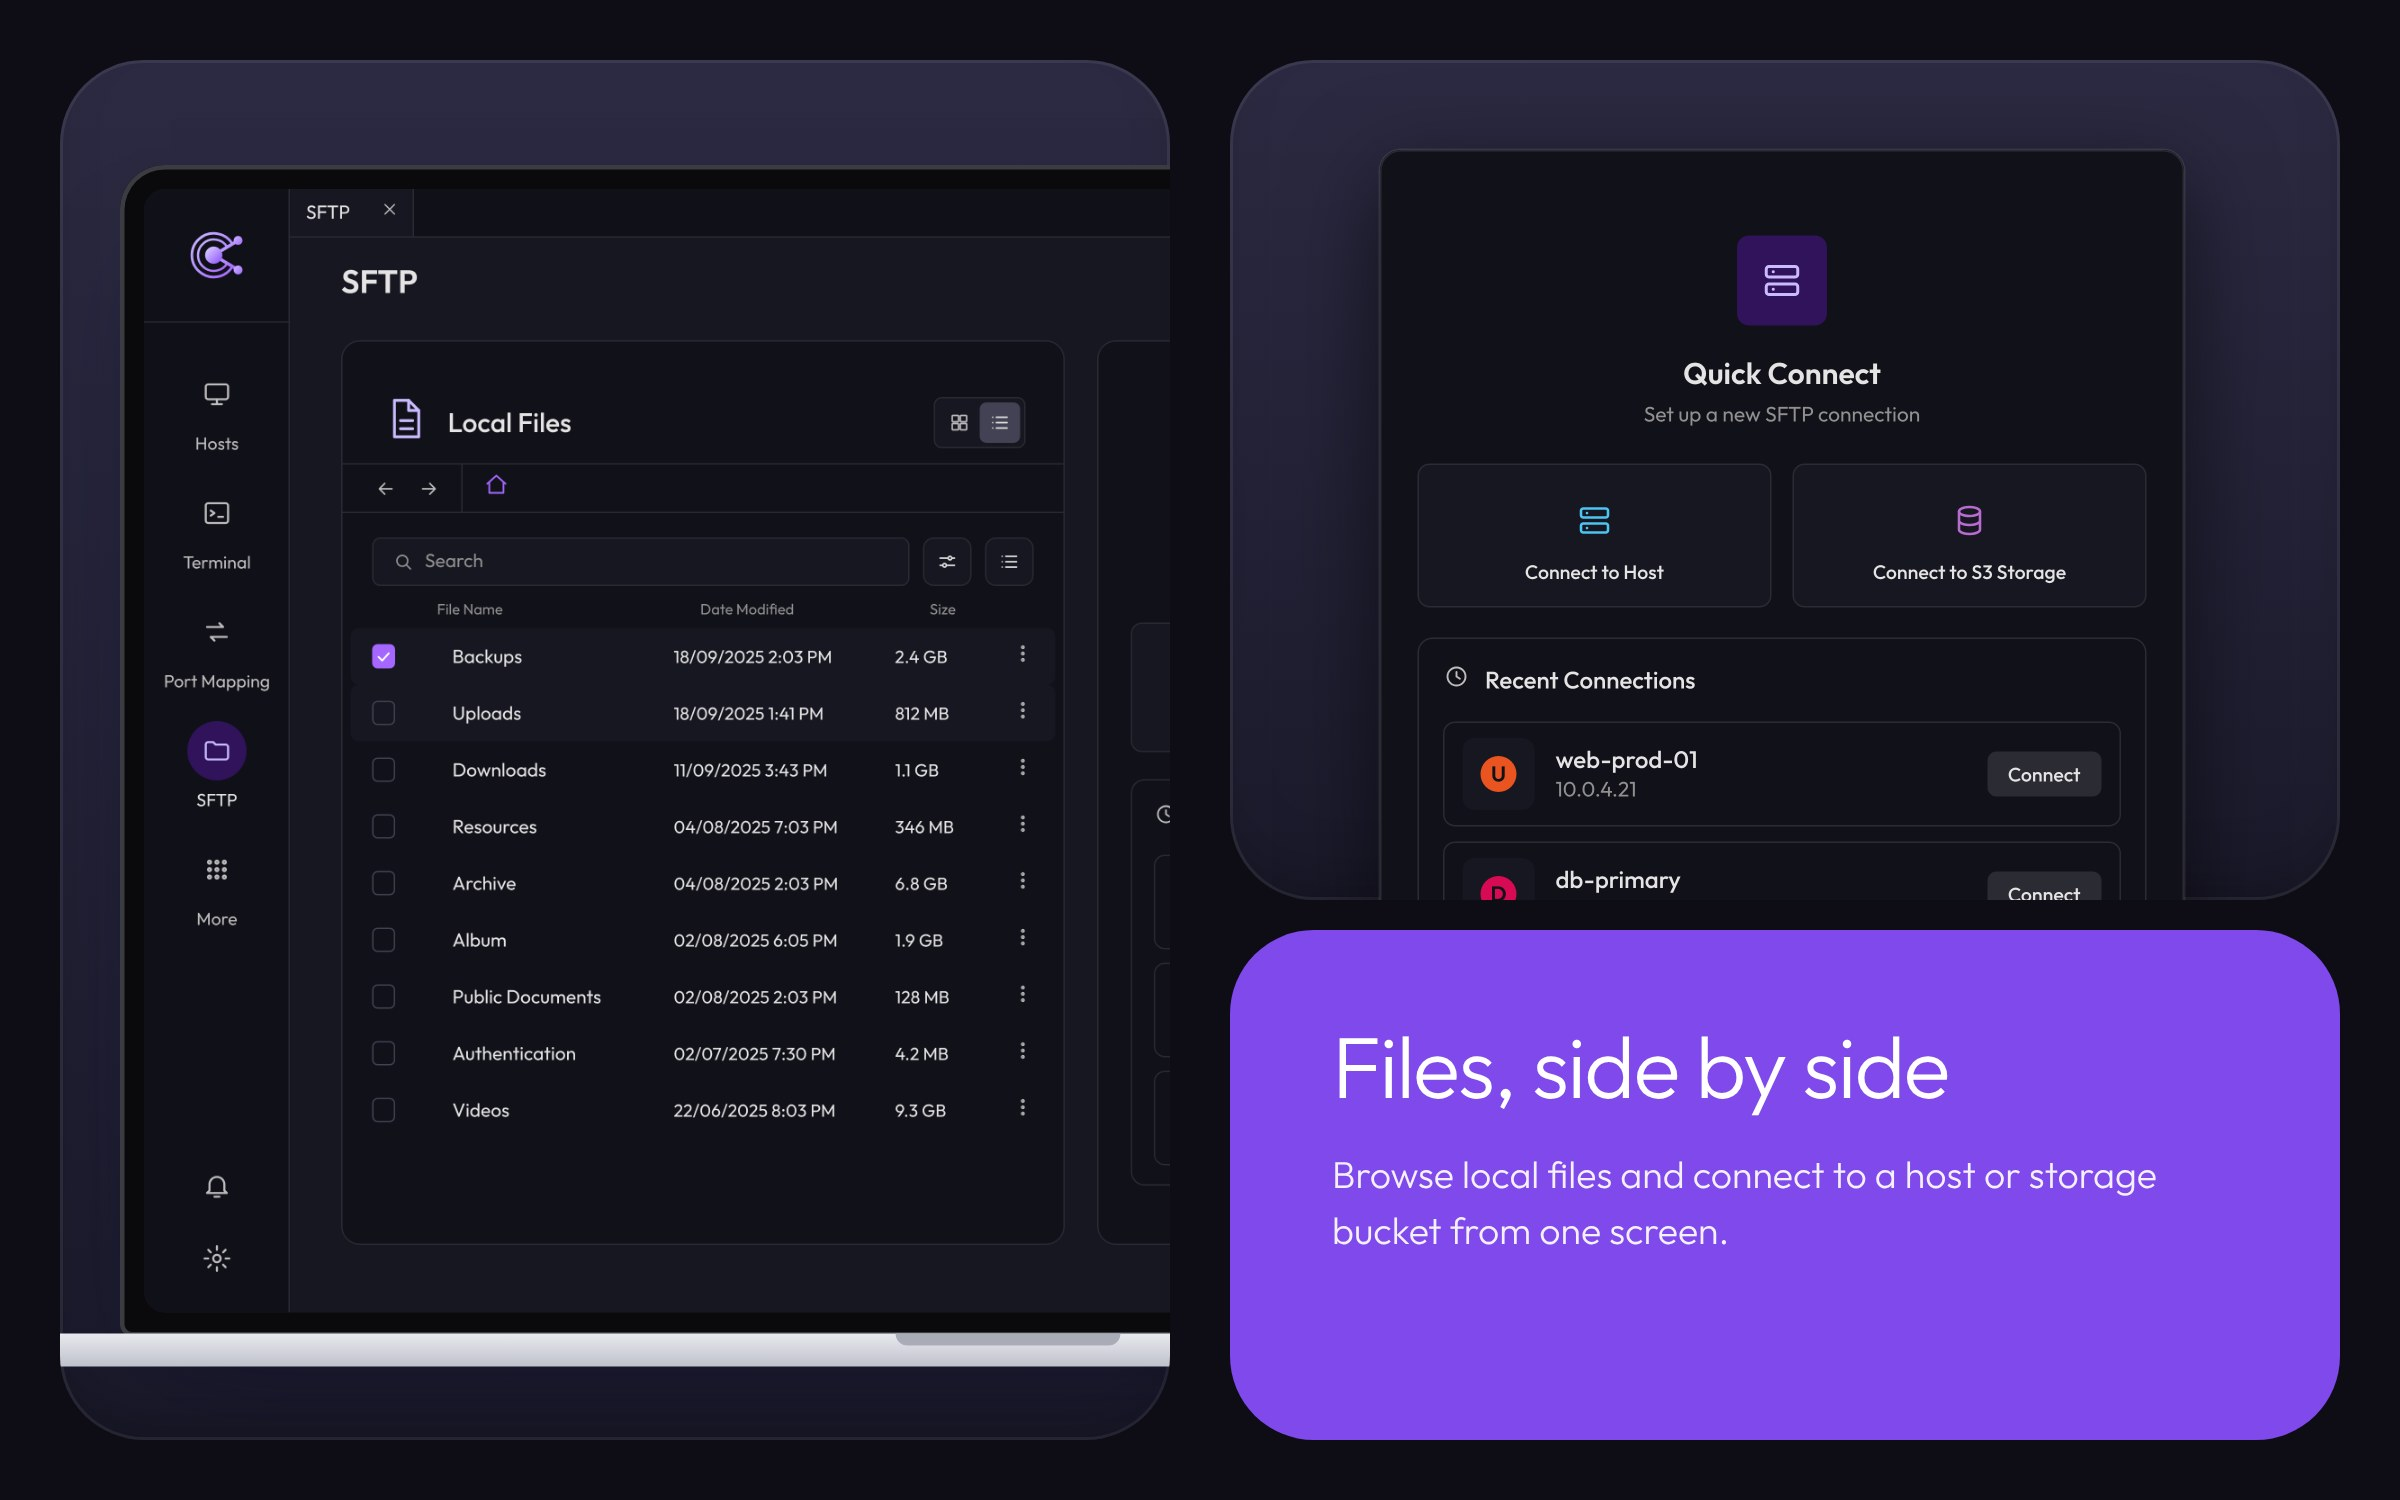
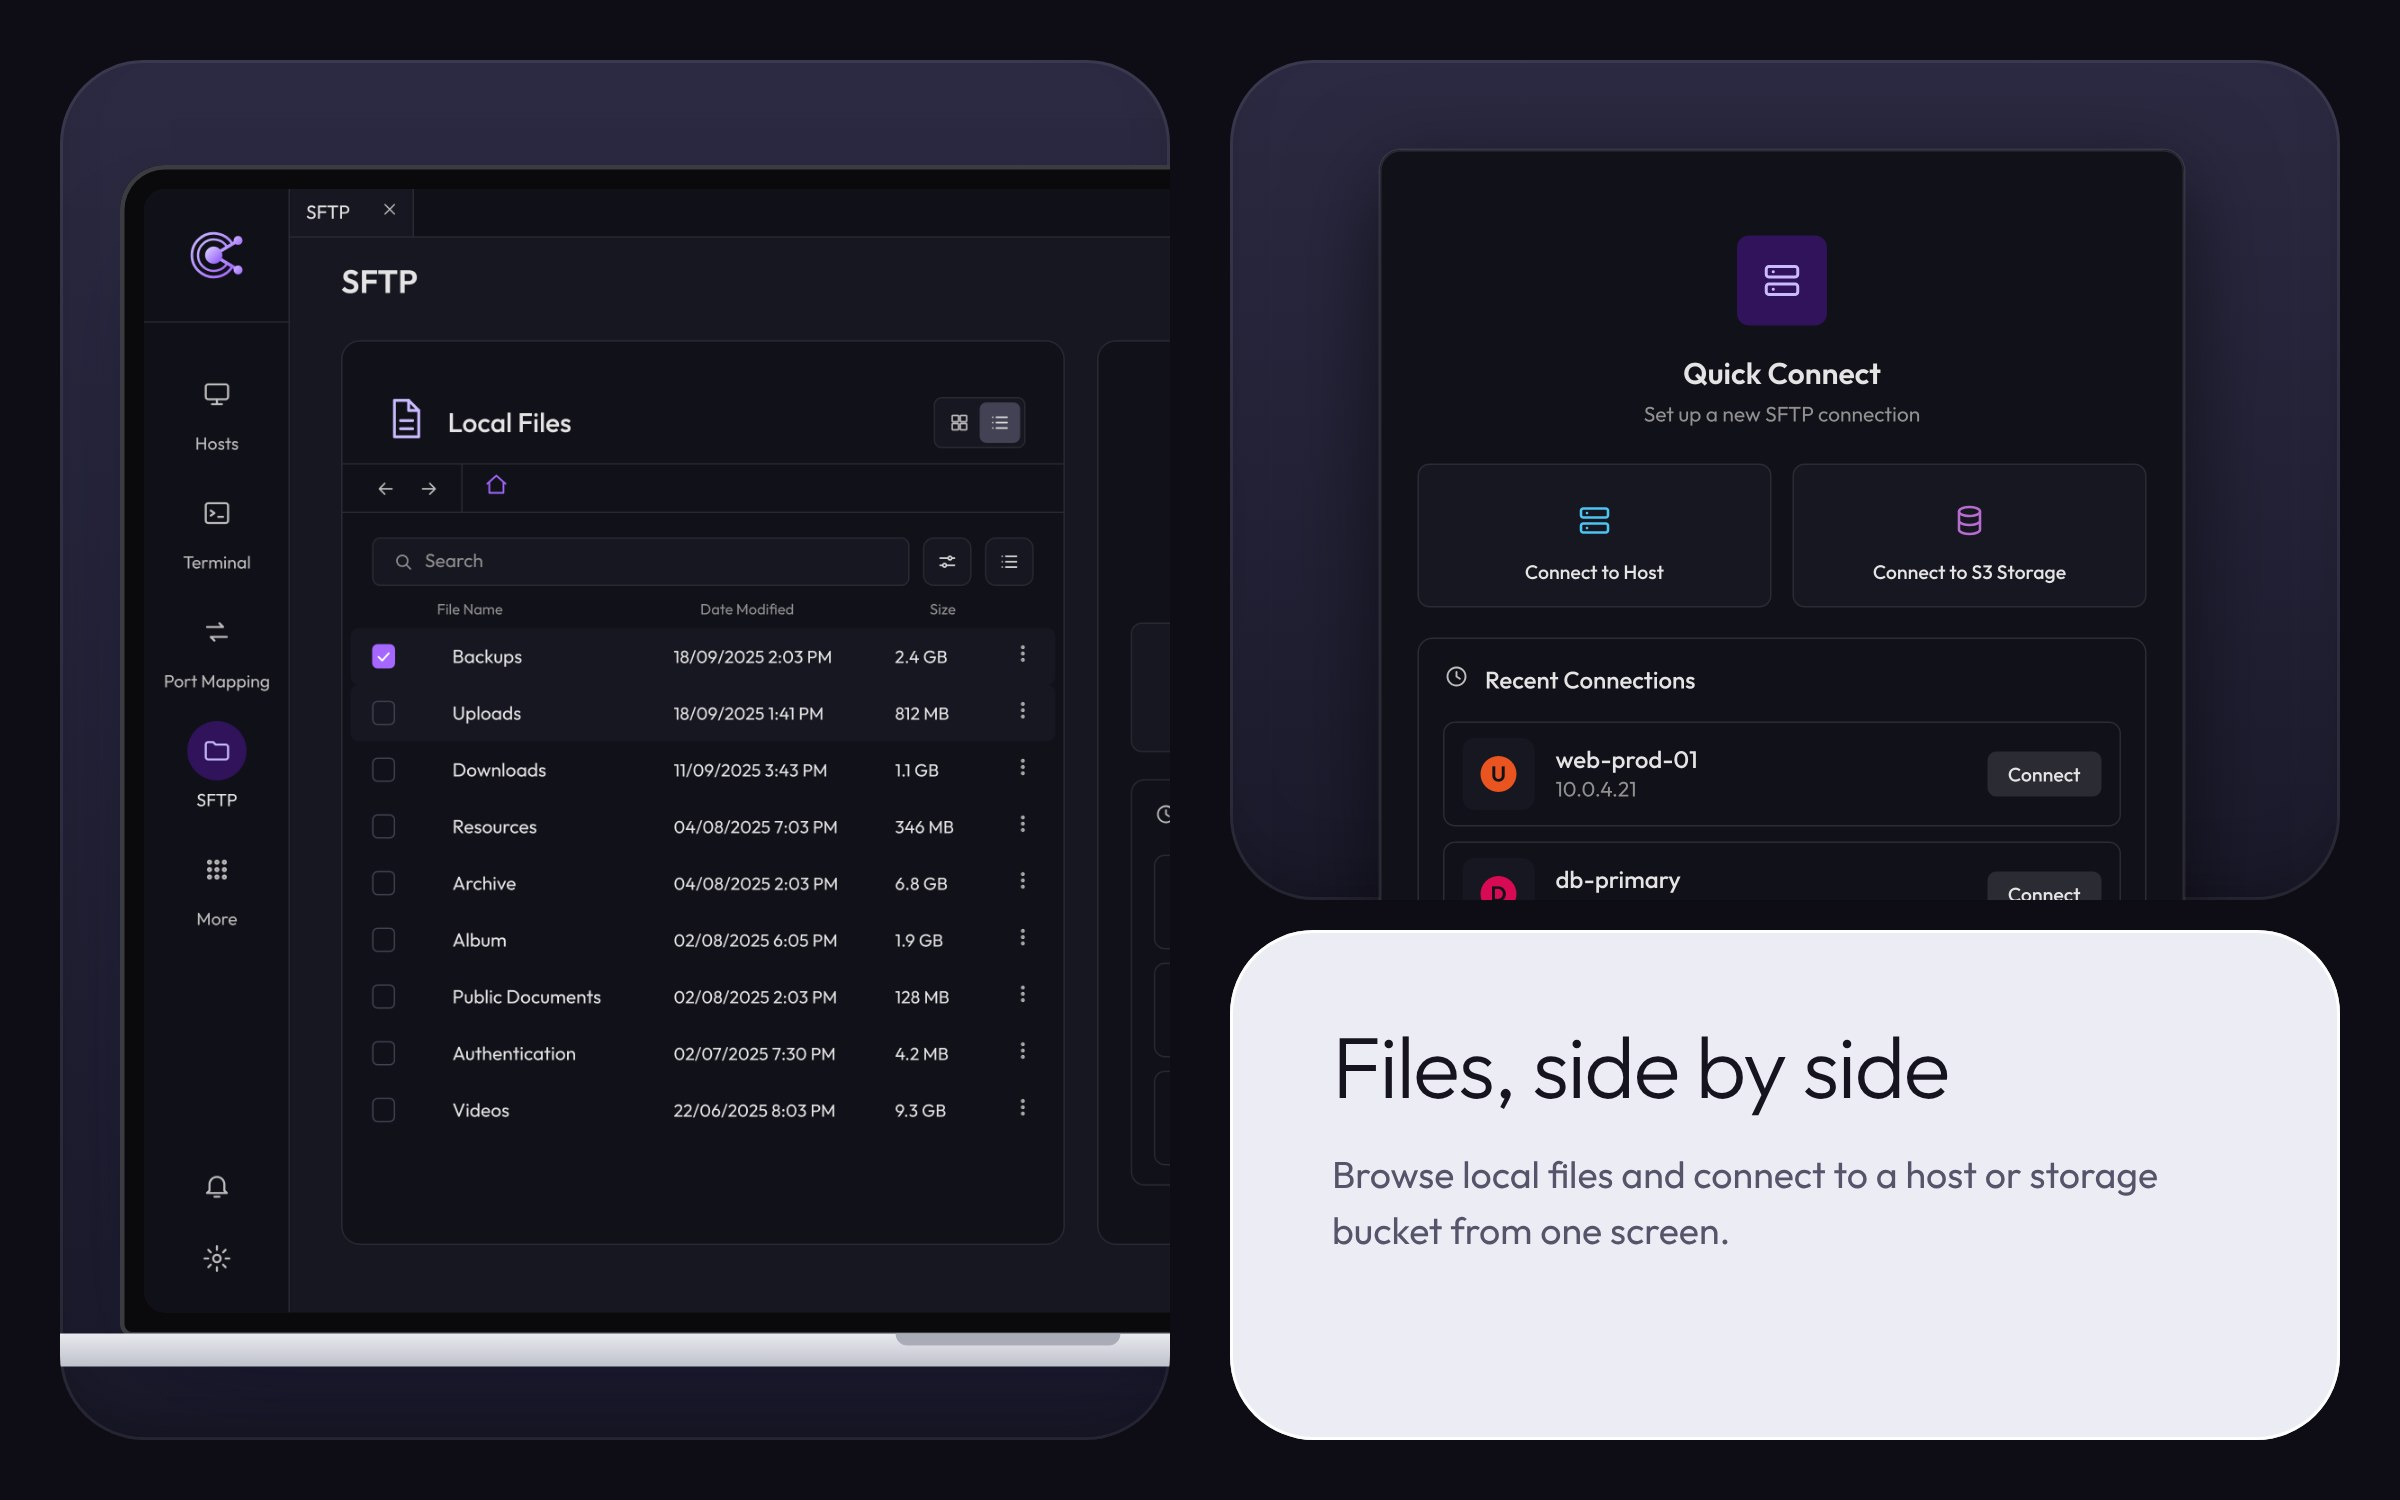
SSH client modules: light title blocks instead of purple
Claude-Session: https://claude.ai/code/session_01R7xKivgZdfHWaYCTLEJqfW

Changed region(s): [[0.5, 0.6133, 1.0, 0.9813]]

diff --git a/scripts/mockups/ssh-client/modules.html b/scripts/mockups/ssh-client/modules.html
@@ -8,9 +8,9 @@ body{margin:0;background:#fff}
 .mod{position:relative;width:1600px;overflow:hidden;font-family:Outfit,sans-serif;margin:0 0 60px;background:#0E0D16}
 .abs{position:absolute}
 .plate{position:absolute;overflow:hidden;border-radius:56px;background:linear-gradient(180deg,#2B2A42,#1B1A2B);box-shadow:inset 0 0 0 2px rgba(255,255,255,.07),inset 0 -26px 50px -28px rgba(0,0,0,.35)}
-.block{position:absolute;border-radius:56px;background:#8049EC;color:#fff;padding:60px 68px;box-sizing:border-box}
+.block{position:absolute;border-radius:56px;background:#ECEDF4;color:#15141F;padding:60px 68px;box-sizing:border-box;box-shadow:inset 0 0 0 2px rgba(255,255,255,.9)}
 .block h3{font-weight:300;font-size:58px;margin:0;letter-spacing:-.02em;line-height:1.08}
-.block p{font-weight:300;font-size:25px;line-height:1.5;margin:22px 0 0;opacity:.92;max-width:580px}
+.block p{font-weight:400;font-size:25px;line-height:1.5;margin:22px 0 0;color:#55546B;max-width:580px}
 .drop{filter:drop-shadow(0 18px 30px rgba(0,0,0,.55))}
 .cr{position:absolute;overflow:hidden;background:#111119;box-shadow:0 0 0 1px rgba(255,255,255,.09)}.cr img{position:absolute;display:block;max-width:none}
 .lap{position:absolute}.lap .lid{position:relative;background:#0A0A0D;padding:16px;border-radius:30px 30px 8px 8px;box-shadow:inset 0 0 0 3px #3b3b42,0 40px 70px -34px rgba(10,10,40,.55)}
